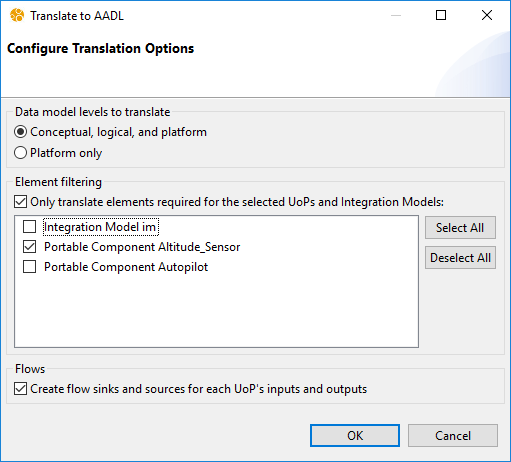
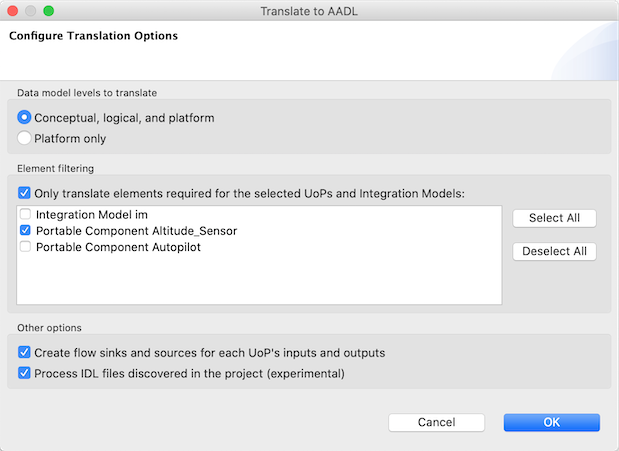
Updated help text for the IDL option.

Changed region(s): [[0.0, 0.1552, 0.9687, 0.8692], [0.0, 0.0, 1.0, 1.0]]

diff --git a/org.osate.face2aadl.help/markdown/Translator.md b/org.osate.face2aadl.help/markdown/Translator.md
@@ -41,8 +41,8 @@ To translate a FACE file into AADL, do the following:
 ## Translation options
 
 The translator has a few options for configuring the resulting AADL model. There are options for selecting
-which parts of the data model should be translated, which UoPs and integration models should be translated,
-and if flow sinks and sources should be created for the UoPs.
+which parts of the data model should be translated, which UoPs and integration models should be translated, if
+flow sinks and sources should be created for the UoPs, and if IDL files should be processed.
 
 ![Configure Translation Options](images/ConfigureTranslationOptions.png)
 
@@ -75,6 +75,24 @@ By default, the translator will create a flow sink for every UoP input and a flo
 These flow sinks and sources will be on the resulting process classifiers. The purpose of these flow
 declarations is to make it easier to extend the generated model and add end to end flows. If this is not
 desirable, then the creation of these flows can be disabled.
+
+### IDL Processing (experimental)
+
+By default, the translator will create an empty data type and implementation for each
+**face.datamodel.platform.PhysicalDataType** and **face.datamodel.platform.Template**. By selecting this option,
+the translator will fill these types and implementations with more information such as their specific data
+representations and subcomponents. The translator discovers this information by processing IDL
+files which have been generated by the Conformance Test Suite. The expectation is that the user will
+generate the IDL files, and then copy them into the project. The translator will then search through all of
+the IDL files for a declaration corresponding to a **PhysicalDataType** or **Template**. If an IDL declaration
+could not be found, a data type and implementation is still produced, but with a comment indicating that the
+IDL declaration could not be found. An info message is also reported to the error log.
+
+The information gathered from the IDL files is the same as the information contained in the Query and Template
+languages found within the FACE file. From an implementation perspective, it is simpler to process this
+information in its IDL format rather than processing Query and Template. The IDL parser within the translator
+is simplified and is only intended to parse IDL which is generated by the Conformance Test Suite and cannot
+handle general IDL files.
 
 ## Translation details
 
@@ -179,12 +197,41 @@ The following describes how various elements of the data model are translated.
 #### face.datamodel.platform.PhysicalDataType
 
 * Each **PhysicalDataType** is translated into a data type.
-* The **name** field is used to create the name of the data type. The data type's name is
-  ***\<name\>*_Platform**.
-* The **description** field is translated into a comment on the data type.
-* The property **FACE::Realization_Tier** is set to the value of **platform**.
-* If the FACE file was generated using UUIDs, then the property **FACE::UUID** is set to the ID of the
-  **PhysicalDataType**.
+	* The **name** field is used to create the name of the data type. The data type's name is
+	  ***\<name\>*_Platform**.
+	* The **description** field is translated into a comment on the data type.
+	* The property **FACE::Realization_Tier** is set to the value of **platform**.
+	* If the FACE file was generated using UUIDs, then the property **FACE::UUID** is set to the ID of the
+	  **PhysicalDataType**.
+	* If IDL processing was enabled and this **PhysicalDataType** corresponds to an IDL definition, then data
+    representation information is added to the data type through an extension, a property, or both.
+		* If the IDL definition is a `short`, then the data type will extend from **Base_Types::Integer_16**.
+		* If the IDL definition is a `long`, then the data type will extend from **Base_Types::Integer_32**.
+		* If the IDL definition is a `long long`, then the data type will extend from **Base_Types::Integer_64**.
+		* If the IDL definition is an `unsigned short`, then the data type will extend from
+		  **Base_Types::Unsigned_16**.
+		* If the IDL definition is an `unsigned long`, then the data type will extend from
+		  **Base_Types::Unsigned_32**.
+		* If the IDL definition is an `unsigned long long`, then the data type will extend from
+		  **Base_Types::Unsigned_64**.
+		* If the IDL definition is a `float`, then the data type will extend from **Base_Types::Float_32**.
+		* If the IDL definition is a `double`, then the data type will extend from **Base_Types::Float_64**.
+		* If the IDL definition is a `long double`, then the data type will extend from **Base_Types::Float**.
+		* If the IDL definition is a `char`, then the data type will extend from **Base_Types::Character**.
+		* If the IDL definition is a `boolean`, then the data type will extend from **Base_Types::Boolean**.
+		* If the IDL definition is a `string`, then the data type will extend from **Base_Types::String**.
+		* If the IDL definition is a `string` with a size, then the data type will extend from
+		  **Base_Types::String** and have the **Data_Size** property set to the number of bytes in the string.
+		* If the IDL definition is an `enum`, then the data type will have the **Data_Model::Data_Representation**
+		  property set to **Enum**.
+		* If the IDL definition is an `octet`, then the data type will have the **Data_Size** property set to
+		  **8 bits**.
+		* If the IDL definition is `fixed`, then the data type will have the **Data_Model::Data_Representation**
+		  property set to **Fixed**.
+* Each **PhysicalDataType** is also translated into a data implementation which implements the data type.
+	* If IDL processing was enabled and this **PhysicalDataType** corresponds to a `struct` in IDL, then each
+	  member of the struct is translated into a data subcomponent.
+		* If the struct member is a `sequence` or an array, then the data subcomponent will be an array as well.
 
 #### face.datamodel.platform.Entity
 
@@ -201,14 +248,18 @@ The following describes how various elements of the data model are translated.
 #### face.datamodel.platform.Template
 
 * Each **Template** is translated into a data type.
-* The **name** field is used to create the name of the data type. The data type's name is
-  ***\<name\>*_Platform**.
-* The **description** field is translated into a comment on the data type.
-* If translating all data model levels, the **boundQuery** field is set, and its **realizes** field is set,
-  then it is translated into the data type's extension reference.
-* The property **FACE::Realization_Tier** is set to the value of **platform**.
-* If the FACE file was generated using UUIDs, then the property **FACE::UUID** is set to the ID of the
-  **Template**.
+	* The **name** field is used to create the name of the data type. The data type's name is
+	  ***\<name\>*_Platform**.
+	* The **description** field is translated into a comment on the data type.
+	* If translating all data model levels, the **boundQuery** field is set, and its **realizes** field is set,
+	  then it is translated into the data type's extension reference.
+	* The property **FACE::Realization_Tier** is set to the value of **platform**.
+	* If the FACE file was generated using UUIDs, then the property **FACE::UUID** is set to the ID of the
+	  **Template**.
+* Each **Template** is also translated into a data implementation which implements the data type.
+	* If IDL processing was enabled and this **Template** corresponds to a `struct` in IDL, then each
+	  member of the struct is translated into a data subcomponent.
+		* If the struct member is a `sequence` or an array, then the data subcomponent will be an array as well.
 
 #### face.datamodel.platform.CompositeTemplate
 
